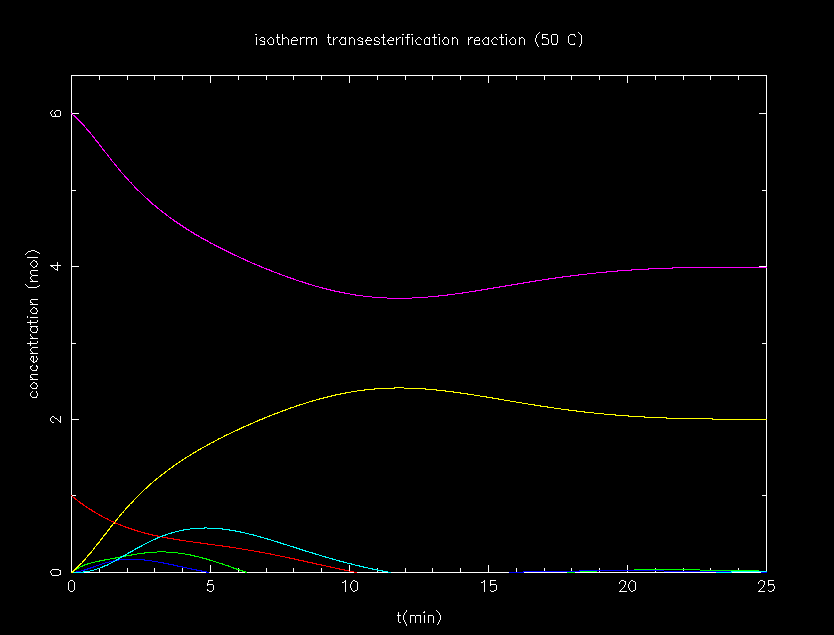
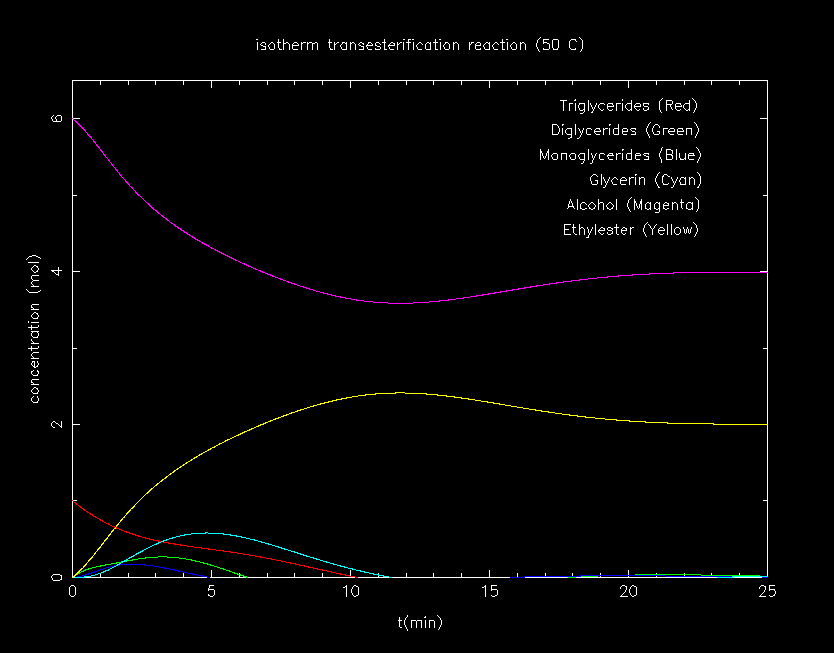
add chemical names

diff --git a/README.md b/README.md
@@ -37,5 +37,5 @@ The pgplot library is necessary to plot the examples:
 ### Plot example 3: Lotka–Volterra example 2
 ![example3](https://github.com/planelles20/numerical_methods_fortran/blob/master/img/lotka_volterra2.png)
 
-### Plot example 4: isotherm transesterification reaction at 50 C
+### Plot example 4: isotherm transesterification reaction at 50 C (*[`link`](http://www.cubasolar.cu/biblioteca/Ecosolar/Ecosolar22/HTML/articulo02.htm)*)
 ![example4](https://github.com/planelles20/numerical_methods_fortran/blob/master/img/transesterification_isoterm.png)
